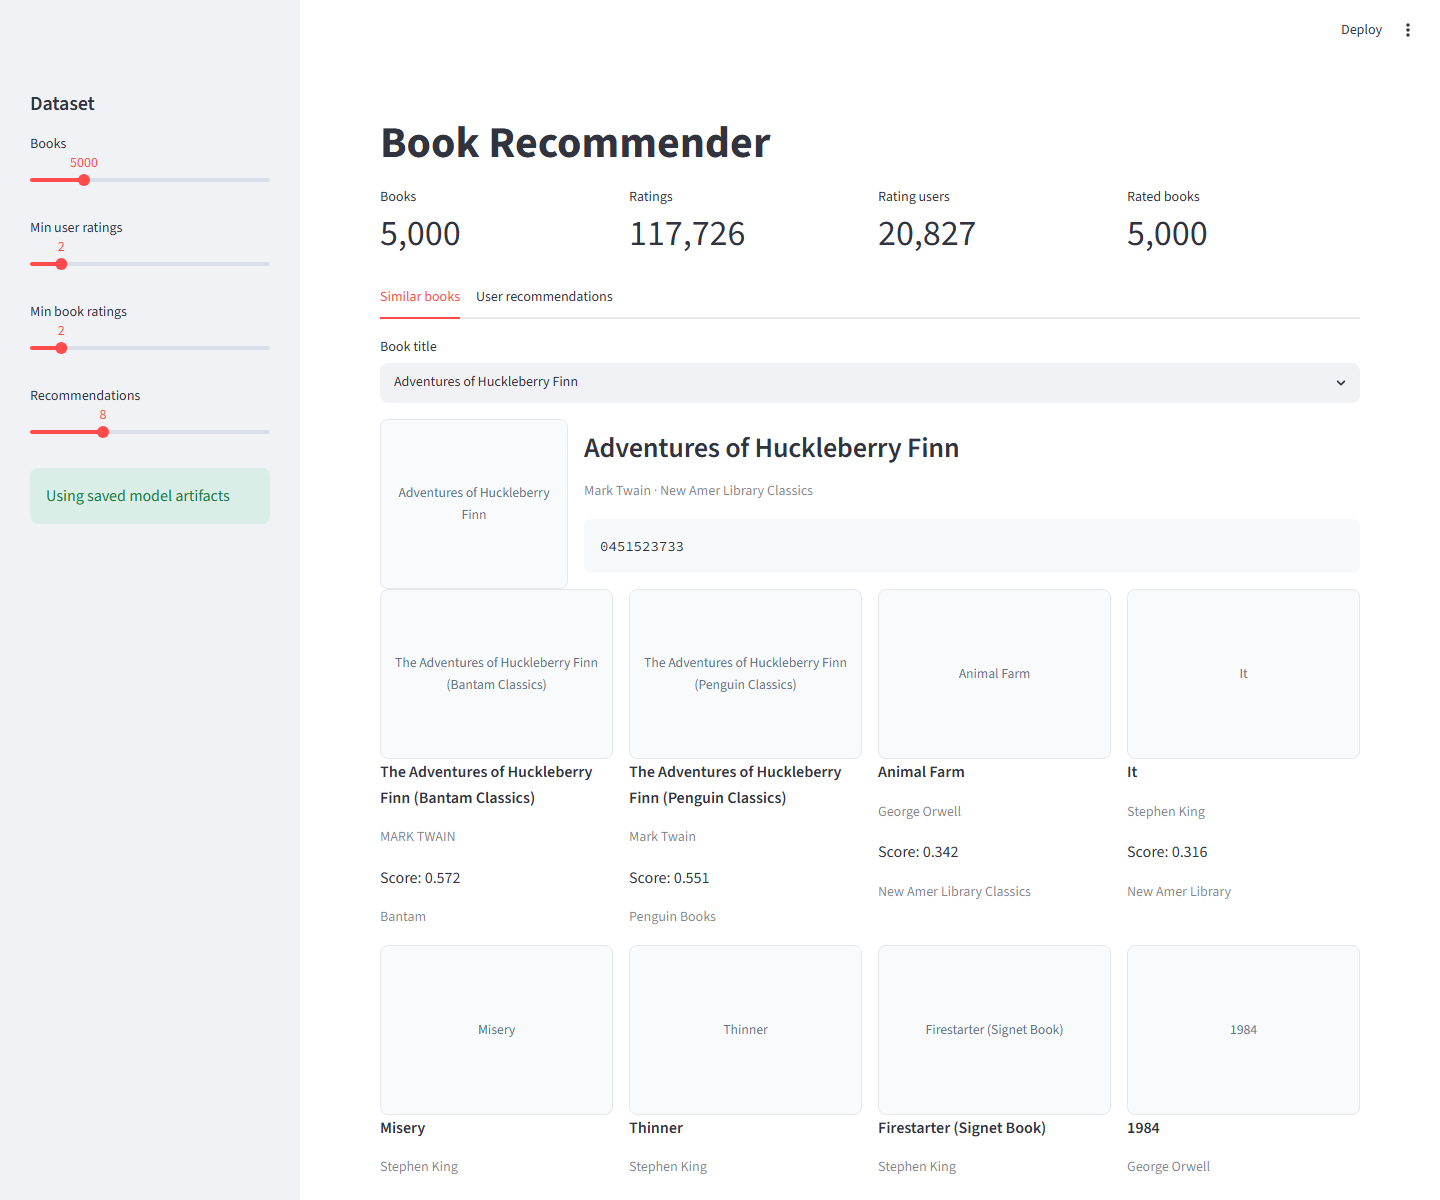
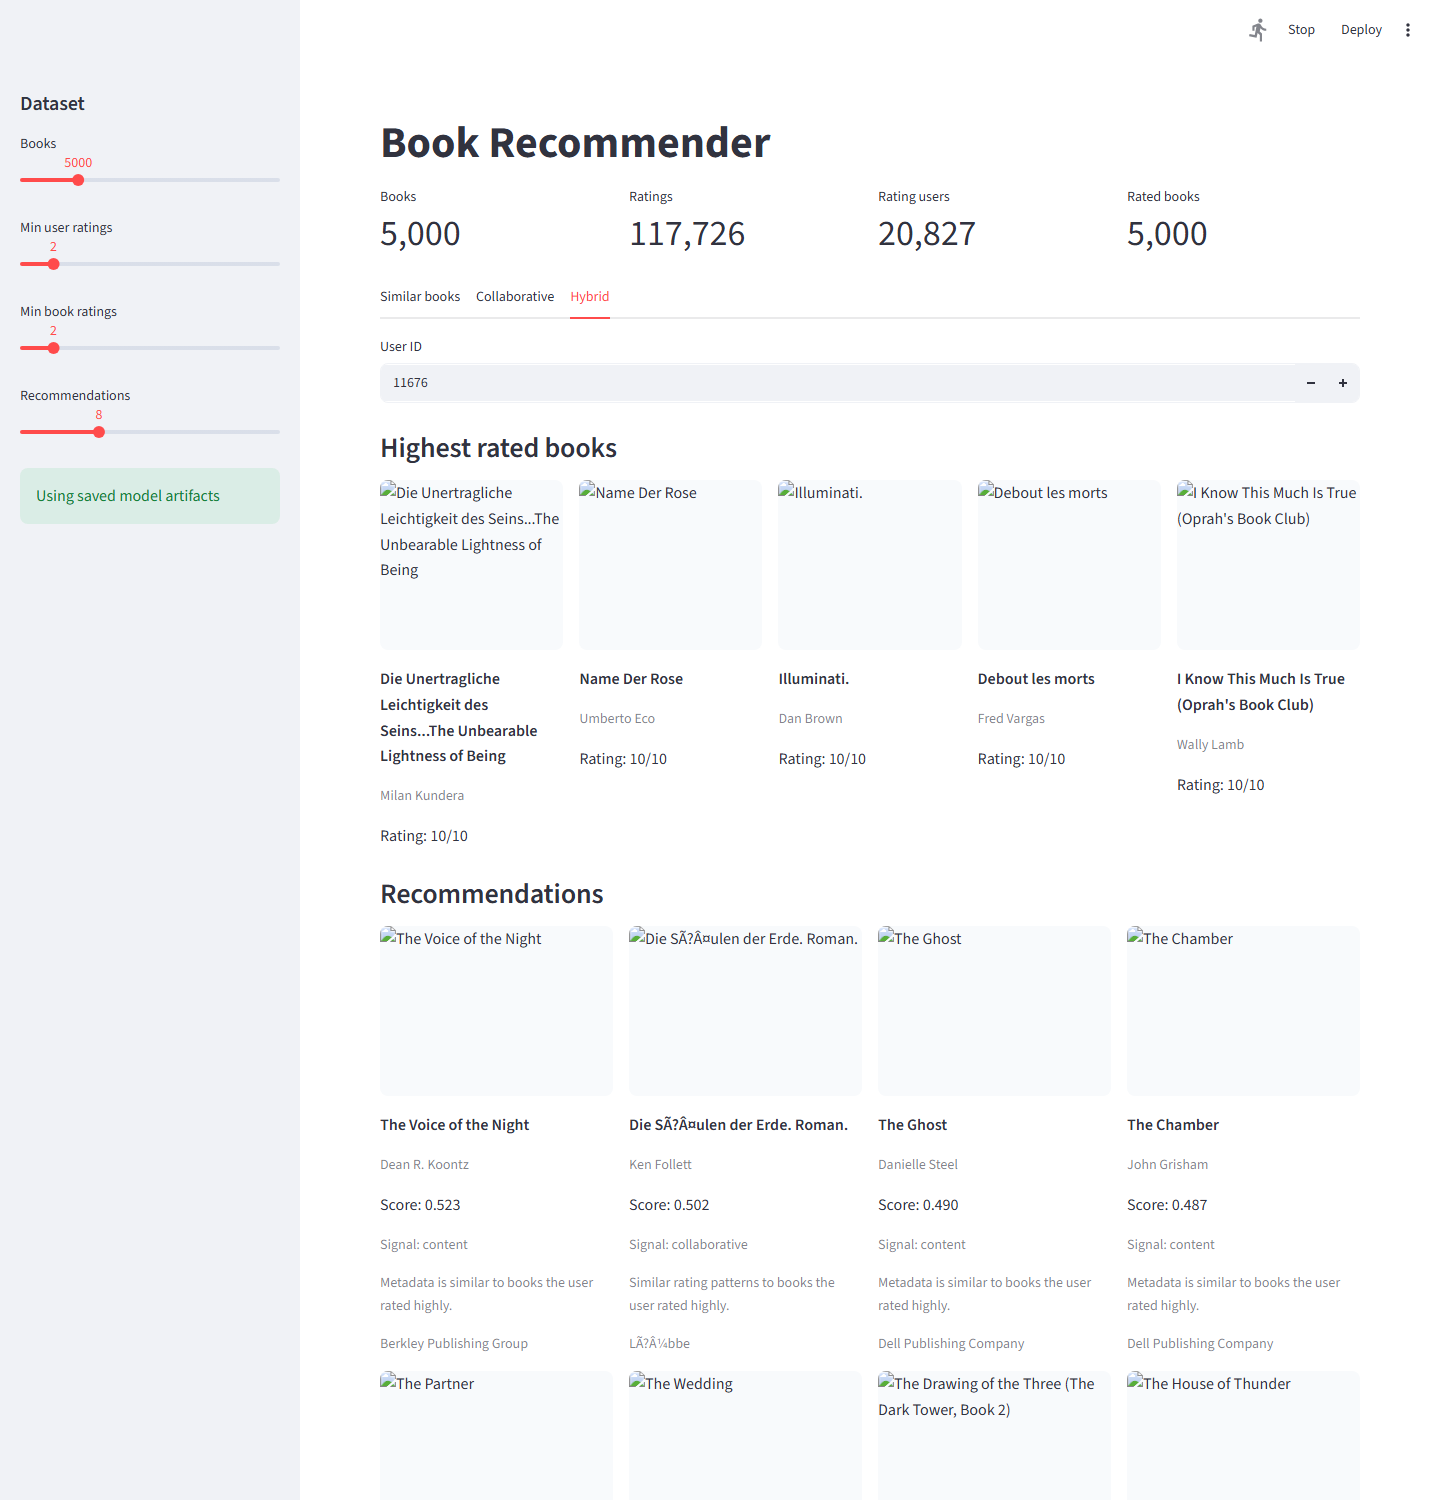
Update Streamlit demo screenshot

diff --git a/app/streamlit_app.py b/app/streamlit_app.py
@@ -341,11 +341,11 @@ def render_cover(container, row) -> None:
             f"""
             <img src="{safe_url}" alt="{safe_title}" style="
                 width: 100%;
-                min-height: 170px;
-                max-height: 260px;
+                height: 170px;
                 object-fit: contain;
                 border-radius: 8px;
-                background: #f8fafc;" />
+                background: #f8fafc;
+                display: block;" />
             """,
             unsafe_allow_html=True,
         )
@@ -354,7 +354,7 @@ def render_cover(container, row) -> None:
     container.markdown(
         f"""
         <div style="
-            min-height: 170px;
+            height: 170px;
             border: 1px solid #e5e7eb;
             border-radius: 8px;
             background: #f8fafc;
